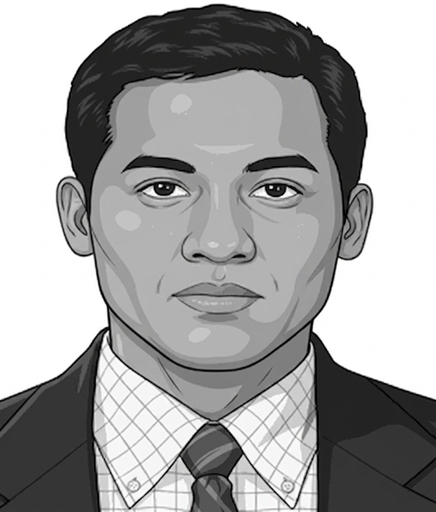
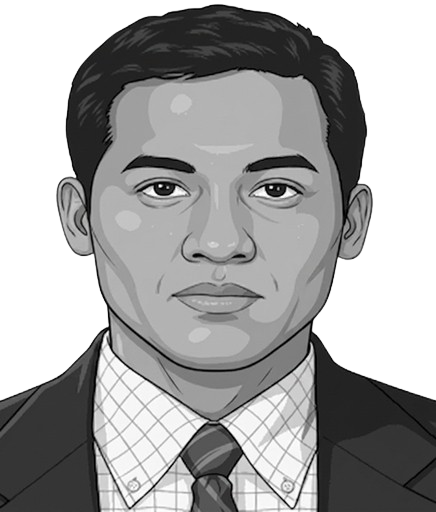
update profile picture

diff --git a/src/components/Skills.module.css b/src/components/Skills.module.css
@@ -3,7 +3,6 @@
     height: 40px;
     margin: 0;
 }
-
 .icon__skill {
     width: 100%;
     height: 100%;
@@ -11,7 +10,6 @@
     transition: filter 0.3s ease, transform 0.3s ease;
     will-change: filter, transform;
 }
-
 .icon__skill:hover {
     filter: grayscale(100%) drop-shadow(0 0 0.5rem var(--color-primary-light));
     transform: scale(1.1);

diff --git a/src/pages/HomePage.module.css b/src/pages/HomePage.module.css
@@ -13,6 +13,9 @@
 	height: 200px;
 	margin: 0;
 	flex: 0 0 auto;
+	background-color: #D9D9D9;
+    border-radius: 50%;
+    overflow: hidden;
 }
 .home__img {
 	width: 100%;
@@ -37,6 +40,7 @@
 	justify-content: center;
 	gap: 1rem;
 	margin: 0;
+	margin-top: 1.5rem;
 }
 @media screen and (min-width: 612px) {
 	.home__title {
